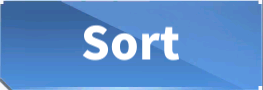
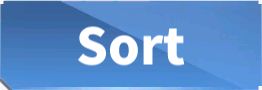
20200120 - Added boss fleet support (secondary fleet used only for boss). - Added support for world 13. - Fixed button_sort asset. - Changed swipe function (when entering a map) to a dictionary. - Added swipes for world 12 and 13 (provided by @whoamikyo on his PR). - If enemies aren't being found bo

Changed region(s): [[0.2748, 0.2667, 0.7023, 0.7333], [0.9771, 0.0, 1.0, 1.0]]

diff --git a/modules/combat.py b/modules/combat.py
@@ -46,6 +46,7 @@ class CombatModule(object):
             'event_button': Region(1770, 250, 75, 75),
             'lock_ship_button': Region(1086, 739, 200, 55),
             'clear_second_fleet': Region(1690, 473, 40, 40),
+            'button_switch_fleet': Region(1430, 985, 240, 60),
             'menu_nav_back': Region(54, 57, 67, 67)
         }
 
@@ -80,12 +81,10 @@ class CombatModule(object):
                 Utils.touch_randomly(self.region["menu_button_battle"])
                 Utils.wait_update_screen(1)
                 continue
-            if Utils.find("combat/menu_fleet") and (lambda x:x > 414 and x < 584)(Utils.find("combat/menu_fleet").y):
-                if not self.chapter_map[0].isdigit() and string.ascii_uppercase.index(self.chapter_map[2:3]) < 1 or \
-                    self.chapter_map[0].isdigit():
+            if Utils.find("combat/menu_fleet") and (lambda x:x > 414 and x < 584)(Utils.find("combat/menu_fleet").y) and not self.config.combat['boss_fleet']:
+                if not self.chapter_map[0].isdigit() and string.ascii_uppercase.index(self.chapter_map[2:3]) < 1 or self.chapter_map[0].isdigit():
                     Logger.log_msg("Removing second fleet from fleet selection.")
                     Utils.touch_randomly(self.region["clear_second_fleet"])
-                continue
             if Utils.find("combat/menu_select_fleet"):
                 Logger.log_debug("Found fleet select go button.")
                 Utils.touch_randomly(self.region["fleet_menu_go"])
@@ -142,7 +141,7 @@ class CombatModule(object):
                 Utils.touch_randomly(self.region['normal_mode_button'])
                 Utils.wait_update_screen(1)
         else:
-            for x in range(1, 13):
+            for x in range(1, 14):
                 if Utils.find("maps/map_{}-1".format(x), 0.99):
                     _map = x
                     break
@@ -386,12 +385,18 @@ class CombatModule(object):
             Utils.wait_update_screen()
 
         #swipe map to fit everything on screen
-        def swipe(cmap):
-            if cmap == 'E-C3' or cmap == 'E-A3':
-                Utils.swipe(960, 800, 960, 400, 100)
-            else:
-                Utils.swipe(960, 540, 1300, 540, 100)
-        swipe(self.chapter_map)
+        swipes = {
+            'E-C3': lambda: Utils.swipe(960, 800, 960, 400, 100),
+            'E-A3': lambda: Utils.swipe(960, 800, 960, 400, 100),
+            '12-2': lambda: Utils.swipe(1000, 570, 1300, 540, 100),
+            '12-3': lambda: Utils.swipe(1250, 530, 1300, 540, 100),
+            '12-4': lambda: Utils.swipe(960, 300, 960, 540, 100),
+            '13-1': lambda: Utils.swipe(1020, 500, 1300, 540, 100),
+            '13-2': lambda: Utils.swipe(1125, 550, 1300, 540, 100),
+            '13-3': lambda: Utils.swipe(1150, 510, 1300, 540, 100),
+            '13-4': lambda: Utils.swipe(1200, 450, 1300, 540, 100)
+        }
+        swipes.get(self.chapter_map, lambda: Utils.swipe(960, 540, 1300, 540, 100))()
 
         target_info = self.get_closest_target(self.blacklist)
 
@@ -409,6 +414,30 @@ class CombatModule(object):
                 return True
             if Utils.find("enemy/fleet_boss", 0.9, self.chapter_map):
                 Logger.log_msg("Boss fleet was found.")
+
+                if self.config.combat['boss_fleet']:
+                    s = 0
+                    swipes = {
+                        0: lambda: Utils.swipe(960, 240, 960, 940, 300),
+                        1: lambda: Utils.swipe(1560, 540, 260, 540, 300),
+                        2: lambda: Utils.swipe(960, 940, 960, 240, 300),
+                        3: lambda: Utils.swipe(260, 540, 1560, 540, 300)
+                    }
+
+                    Utils.touch_randomly(self.region['button_switch_fleet'])
+                    Utils.wait_update_screen(2)
+                    boss_region = Utils.find("enemy/fleet_boss", 0.9, self.chapter_map)
+
+                    while not boss_region:
+                        if s > 3: s = 0
+                        swipes.get(s)()
+
+                        Utils.wait_update_screen(0.5)
+                        boss_region = Utils.find("enemy/fleet_boss", 0.85, self.chapter_map)
+                        s += 1
+                    Utils.swipe(boss_region.x, boss_region.y, 960, 540, 300)
+                    Utils.wait_update_screen()
+
                 boss_region = Utils.find("enemy/fleet_boss", 0.9, self.chapter_map)
                 #extrapolates boss_info(x,y,enemy_type) from the boss_region found
                 boss_info = [boss_region.x + 50, boss_region.y + 25, "boss"]
@@ -462,28 +491,39 @@ class CombatModule(object):
                 Utils.script_sleep(3)
                 return
 
-    def get_enemies(self, blacklist=[]):
+    def get_enemies(self, blacklist=[], boss=False):
         sim = 0.99
-        if blacklist != []:
+        i = 0
+        if blacklist:
             Logger.log_info('Blacklist: ' + str(blacklist))
             self.l = [x for x in self.l if (x not in blacklist)]
 
-        while self.l == []:
+        while not self.l:
+            if (boss and len(blacklist) > 4) or (not boss and len(blacklist) > 1) or sim < 0.95:
+                if i > 3: i = 0
+                swipes = {
+                    0: lambda: Utils.swipe(960, 240, 960, 940, 300),
+                    1: lambda: Utils.swipe(1560, 540, 260, 540, 300),
+                    2: lambda: Utils.swipe(960, 940, 960, 240, 300),
+                    3: lambda: Utils.swipe(260, 540, 1560, 540, 300)
+                }
+                swipes.get(i)()
+                sim += 0.005
+                i += 1
             Utils.update_screen()
 
-            l1 = filter(lambda x:x[1] > 80 and x[1] < 977 and x[0] > 180, map(lambda x:[x[0] - 3, x[1] - 45], Utils.find_all('enemy/fleet_level', sim - 0.15, self.chapter_map)))
+            l1 = filter(lambda x:x[1] > 160 and x[1] < 977 and x[0] > 180, map(lambda x:[x[0] - 3, x[1] - 45], Utils.find_all('enemy/fleet_level', sim - 0.15, self.chapter_map)))
             l1 = [x for x in l1 if (not self.filter_blacklist(x, blacklist))]
-            l2 = filter(lambda x:x[1] > 80 and x[1] < 977 and x[0] > 180, map(lambda x:[x[0] + 75, x[1] + 110], Utils.find_all('enemy/fleet_1_down', sim, self.chapter_map)))
+            l2 = filter(lambda x:x[1] > 160 and x[1] < 977 and x[0] > 180, map(lambda x:[x[0] + 75, x[1] + 110], Utils.find_all('enemy/fleet_1_down', sim, self.chapter_map)))
             l2 = [x for x in l2 if (not self.filter_blacklist(x, blacklist))]
-            l3 = filter(lambda x:x[1] > 80 and x[1] < 977 and x[0] > 180, map(lambda x:[x[0] + 75, x[1] + 110], Utils.find_all('enemy/fleet_2_down', sim - 0.02, self.chapter_map)))
+            l3 = filter(lambda x:x[1] > 160 and x[1] < 977 and x[0] > 180, map(lambda x:[x[0] + 75, x[1] + 110], Utils.find_all('enemy/fleet_2_down', sim - 0.02, self.chapter_map)))
             l3 = [x for x in l3 if (not self.filter_blacklist(x, blacklist))]
-            l4 = filter(lambda x:x[1] > 80 and x[1] < 977 and x[0] > 180, map(lambda x:[x[0] + 75, x[1] + 130], Utils.find_all('enemy/fleet_3_up', sim - 0.06, self.chapter_map)))
+            l4 = filter(lambda x:x[1] > 160 and x[1] < 977 and x[0] > 180, map(lambda x:[x[0] + 75, x[1] + 130], Utils.find_all('enemy/fleet_3_up', sim - 0.06, self.chapter_map)))
             l4 = [x for x in l4 if (not self.filter_blacklist(x, blacklist))]
-            l5 = filter(lambda x:x[1] > 80 and x[1] < 977 and x[0] > 180, map(lambda x:[x[0] + 75, x[1] + 110], Utils.find_all('enemy/fleet_3_down', sim - 0.06, self.chapter_map)))
+            l5 = filter(lambda x:x[1] > 160 and x[1] < 977 and x[0] > 180, map(lambda x:[x[0] + 75, x[1] + 110], Utils.find_all('enemy/fleet_3_down', sim - 0.06, self.chapter_map)))
             l5 = [x for x in l5 if (not self.filter_blacklist(x, blacklist))]
-            l6 = filter(lambda x:x[1] > 80 and x[1] < 977 and x[0] > 180, map(lambda x:[x[0] + 75, x[1] + 110], Utils.find_all('enemy/fleet_2_up', sim - 0.06, self.chapter_map)))
+            l6 = filter(lambda x:x[1] > 160 and x[1] < 977 and x[0] > 180, map(lambda x:[x[0] + 75, x[1] + 110], Utils.find_all('enemy/fleet_2_up', sim - 0.06, self.chapter_map)))
             l6 = [x for x in l6 if (not self.filter_blacklist(x, blacklist))]
-
 
             self.l = l1 + l2 + l3 + l4 + l5 + l6
             sim -= 0.005
@@ -550,13 +590,14 @@ class CombatModule(object):
             enemy to the specified location
         """
         while True:
+            boss = True if location else False
             fleet_location = self.get_fleet_location()
             mystery_nodes = []
 
             if location == []:
                 location = fleet_location
 
-            enemies = self.get_enemies(blacklist)
+            enemies = self.get_enemies(blacklist, boss)
 
             if mystery_node:
                 sim = 0.9

diff --git a/util/config.py b/util/config.py
@@ -88,6 +88,7 @@ class Config(object):
         """
         self.combat['enabled'] = True
         self.combat['map'] = config.get('Combat', 'Map')
+        self.combat['boss_fleet'] = config.getboolean('Combat', 'BossFleet')
         self.combat['oil_limit'] = int(config.get('Combat', 'OilLimit'))
         self.combat['retire_cycle'] = config.get('Combat', 'RetireCycle')
         self.combat['retreat_after'] = int(config.get('Combat', 'RetreatAfter'))
@@ -135,9 +136,9 @@ class Config(object):
         valid_servers = ['EN', 'JP']
         if self.assets['server'] not in valid_servers:
             if len(valid_servers) < 2:
-                Logger.log_error("Invalid assets configured. Only {} is supported.".format(''.join(valid_servers)))
+                Logger.log_error("Invalid server assets configured. Only {} is supported.".format(''.join(valid_servers)))
             else:
-                Logger.log_error("Invalid assets configured. Only {} and {} are supported.".format(', '.join(valid_servers[:-1]), valid_servers[-1]))
+                Logger.log_error("Invalid server assets configured. Only {} and {} are supported.".format(', '.join(valid_servers[:-1]), valid_servers[-1]))
             self.ok = False
 
         if not self.combat['enabled'] and not self.commissions['enabled'] and not self.enhancement['enabled'] \
@@ -152,7 +153,7 @@ class Config(object):
 
         if self.combat['enabled']:
             map = self.combat['map'].split('-')
-            valid_chapters = list(range(1, 13)) + ['E']
+            valid_chapters = list(range(1, 14)) + ['E']
             valid_levels = list(range(1, 5)) + ['A1', 'A2', 'A3', 'A4',
                                                 'B1', 'B2', 'B3', 'B4',
                                                 'C1', 'C2', 'C3', 'C4',

diff --git a/modules/commission.py b/modules/commission.py
@@ -54,7 +54,11 @@ class CommissionModule(object):
             if Utils.find("commission/alert_available", 0.9) and (lambda x:x > 332 and x < 511)(Utils.find("commission/alert_available", 0.9).y):
                 Logger.log_debug("Found commission available indicator.")
                 Utils.touch_randomly(self.region["button_go"])
-                Utils.script_sleep(1)
+                Utils.wait_update_screen(1)
+
+                while not Utils.find("menu/commission"):
+                    Utils.touch_randomly(self.region["button_go"])
+                    Utils.wait_update_screen(1)
 
                 if self.urgent_handler():
                     self.daily_handler()
@@ -63,10 +67,9 @@ class CommissionModule(object):
             if Utils.find("commission/button_go") and (lambda x:x > 332 and x < 511)(Utils.find("commission/button_go").y):
                 Logger.log_msg("All commissions are running.")
                 Utils.touch_randomly(self.region["dismiss_side_tab"])
-                Utils.wait_update_screen(3)
                 break
 
-        Utils.wait_update_screen(1)
+        Utils.wait_update_screen()
         return True
 
     def completed_handler(self):

diff --git a/modules/mission.py b/modules/mission.py
@@ -42,6 +42,7 @@ class MissionModule(object):
                 if Utils.find("mission/button_collect"):
                     Logger.log_msg("Collected all missions.")
                     Utils.touch_randomly(self.region["collect"])
+                    Utils.script_sleep(3)
                     continue
                 if Utils.find("mission/button_claim"):
                     Logger.log_msg("Claimed mission.")
@@ -52,6 +53,5 @@ class MissionModule(object):
                     continue
                 else:
                     Logger.log_msg("No more missions to claim/collect.")
-                    Utils.touch_randomly(self.region["button_back"])
-                    Utils.wait_update_screen(1)
+                    Utils.menu_navigate("menu/button_battle")
                     return True
